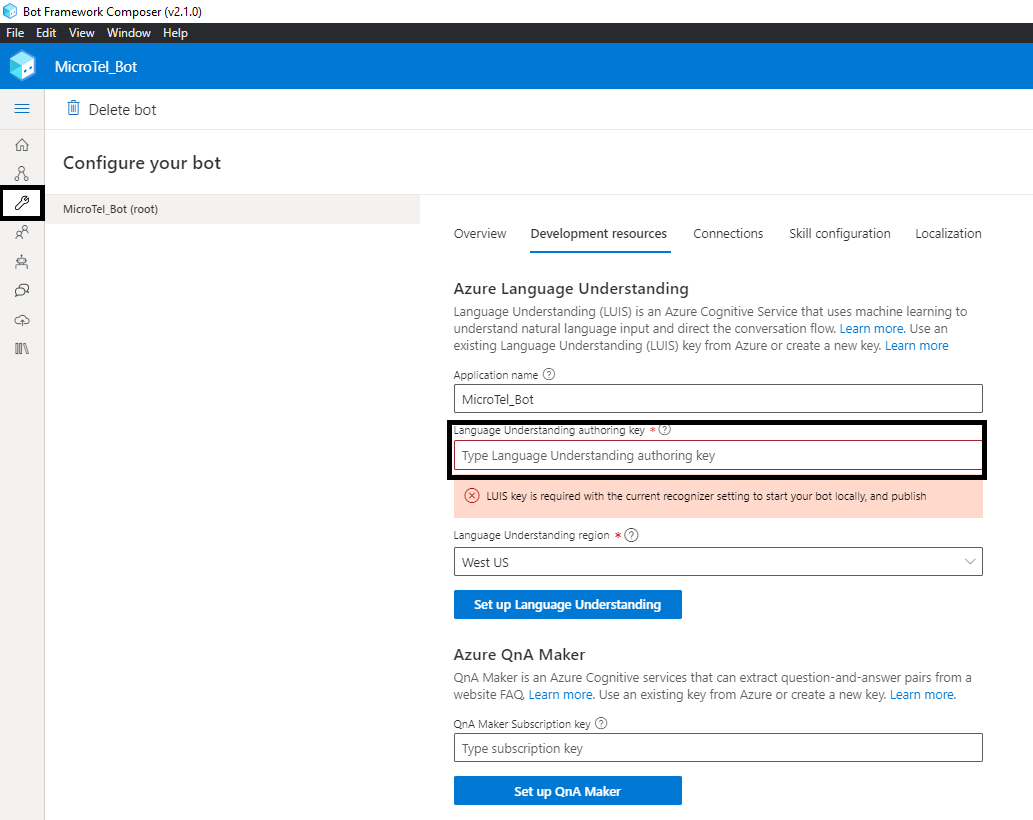
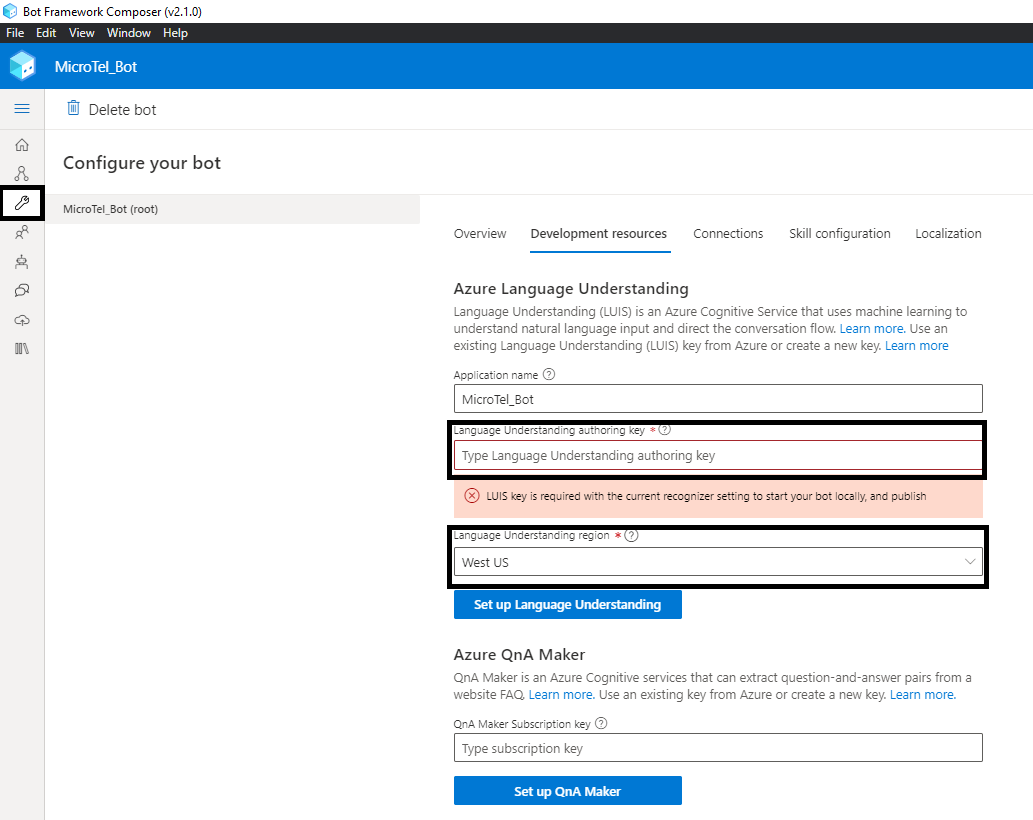
Update fetching luis key and region from docs

Changed region(s): [[0.4337, 0.6402, 0.9603, 0.7317]]

diff --git a/README.md b/README.md
@@ -55,15 +55,22 @@ git clone https://github.com/ahmedmeshref/Contoso-Bot.git
 5. Launch Bot Framework Composer and use it to open Contoso-Bot solution. 
     ![composer](./docsImages/composer.png)
 
-6. From your browser, navigate to [luis.ai](https://luis.ai/) and fetch your [Luis application Subscription Key](https://docs.microsoft.com/en-us/azure/cognitive-services/luis/luis-how-to-azure-subscription?tabs=portal).
+6. Fetch your Luis application Subscription Key and Region.
+   1. From your browser, navigate to [luis.ai](https://luis.ai/).
+   2. Select any app from the My apps list. If you dont have any, please create an empty Luis application. 
+   3. From your app, navigate to Manage > Azure Resources.  
+   4. From Azure Resources page, select Authoring Resources. 
+   5. Copy Location (Region) and Primary Key (Subscription Key).
+   ![Luis Resouces](./docsImages/luisResources.png)
 
-7. Add your previously fetched [Luis Subscription Key to Bot Framework Composer](https://docs.microsoft.com/en-us/composer/how-to-add-luis?tabs=v2x#update-luis-keys). 
+
+7. Add your previously fetched [Luis Subscription Key to Bot Framework Composer and Region](https://docs.microsoft.com/en-us/composer/how-to-add-luis?tabs=v2x#update-luis-keys). 
     ![luis key](./docsImages/luisKey.png)
 
 8. Run solution from Bot Framework composer.
     ![run composer](./docsImages/runComposer.png) 
     
-9. Test application in Bot Emulator when the run process in done.
+9.  Test application in Bot Emulator when the run process in done.
     ![test bot](./docsImages/testApp.png)
     - Clicking on 'Test in Emulator' button will open the bot in Emulator for testing.  
 
